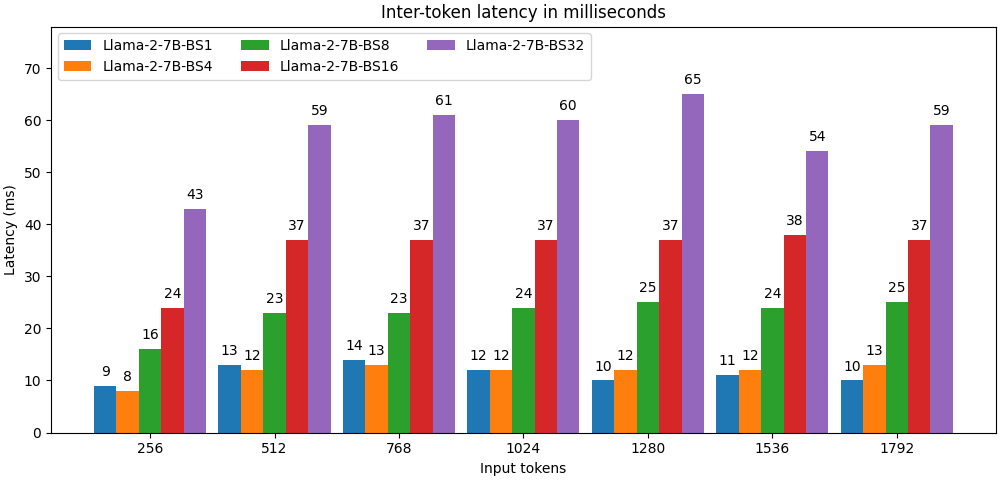
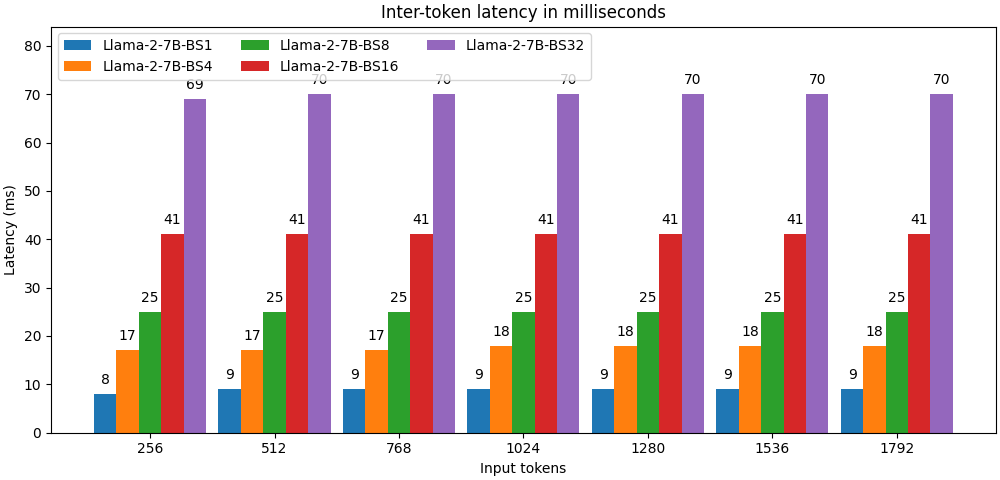
docs(benchmark): new Llama2-7b results with 8 cores

diff --git a/benchmark/text-generation/llama2-7b.py b/benchmark/text-generation/llama2-7b.py
@@ -8,7 +8,7 @@ from optimum.neuron.modeling_decoder import get_available_cores
 
 
 def main():
-    NUM_CORES = 24
+    NUM_CORES = 8
     num_cores = get_available_cores()
     if num_cores < NUM_CORES:
         raise ValueError(f"This benchmark can only run on an instance with at least {NUM_CORES} cores.")
